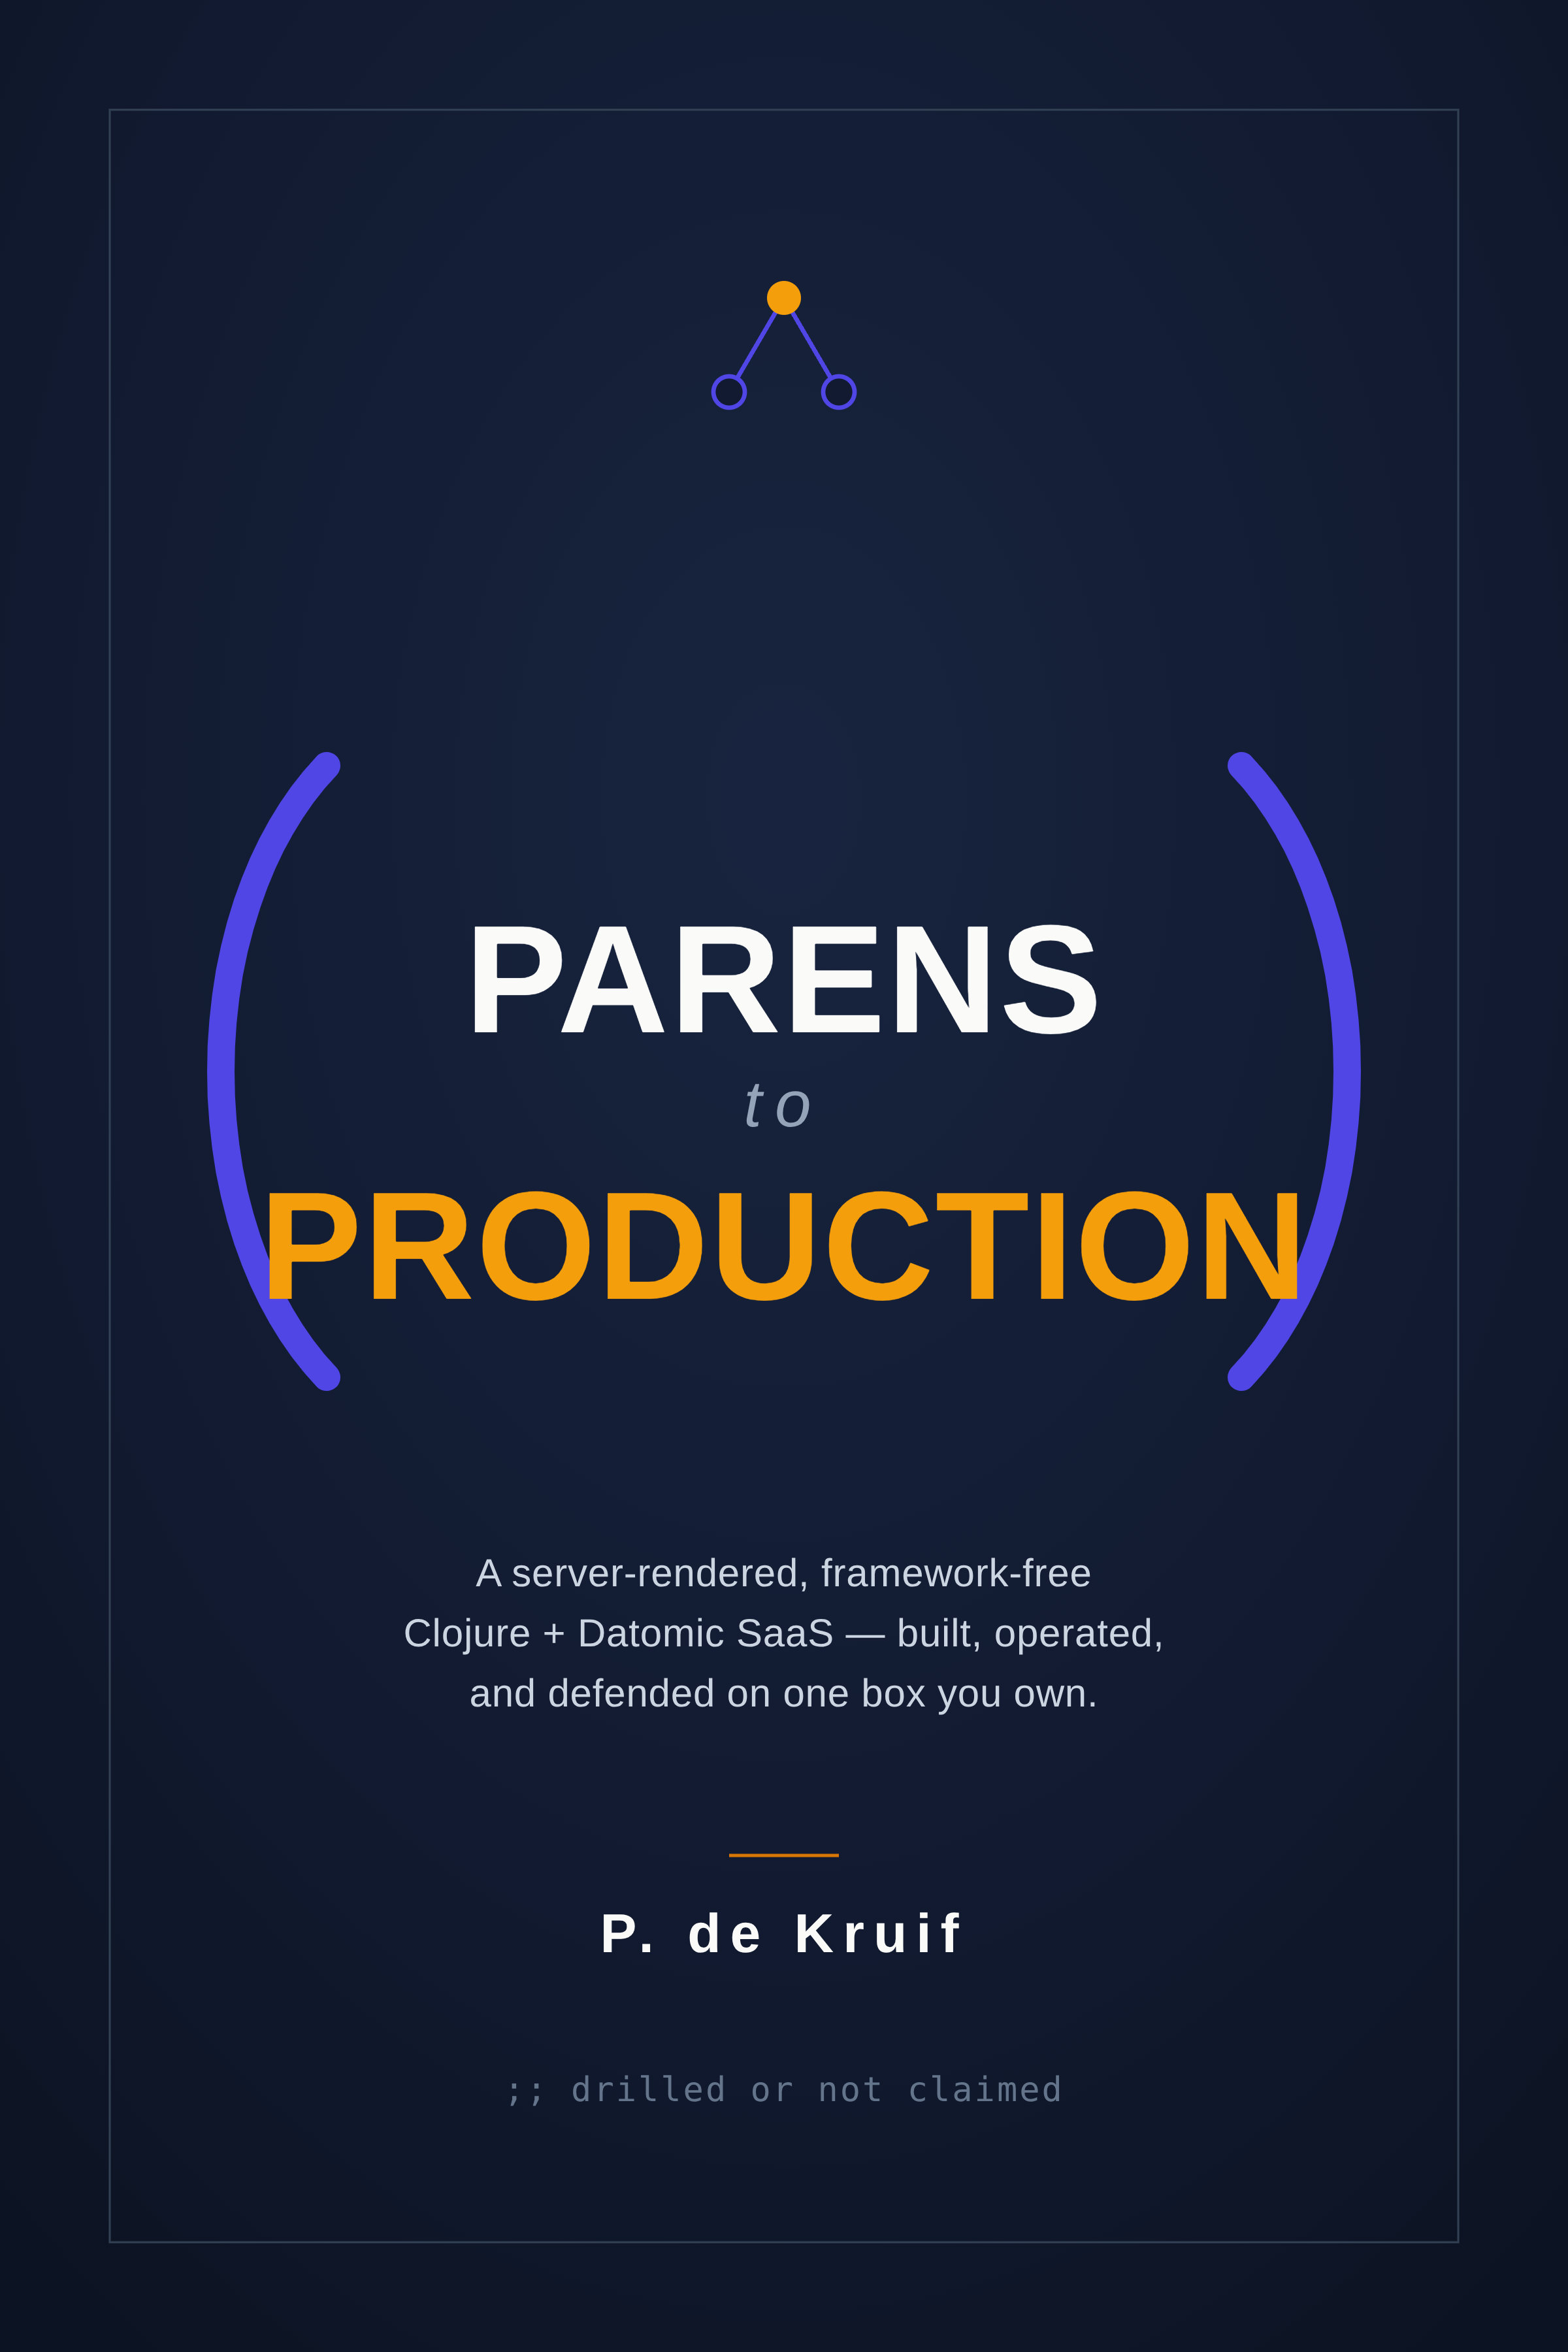
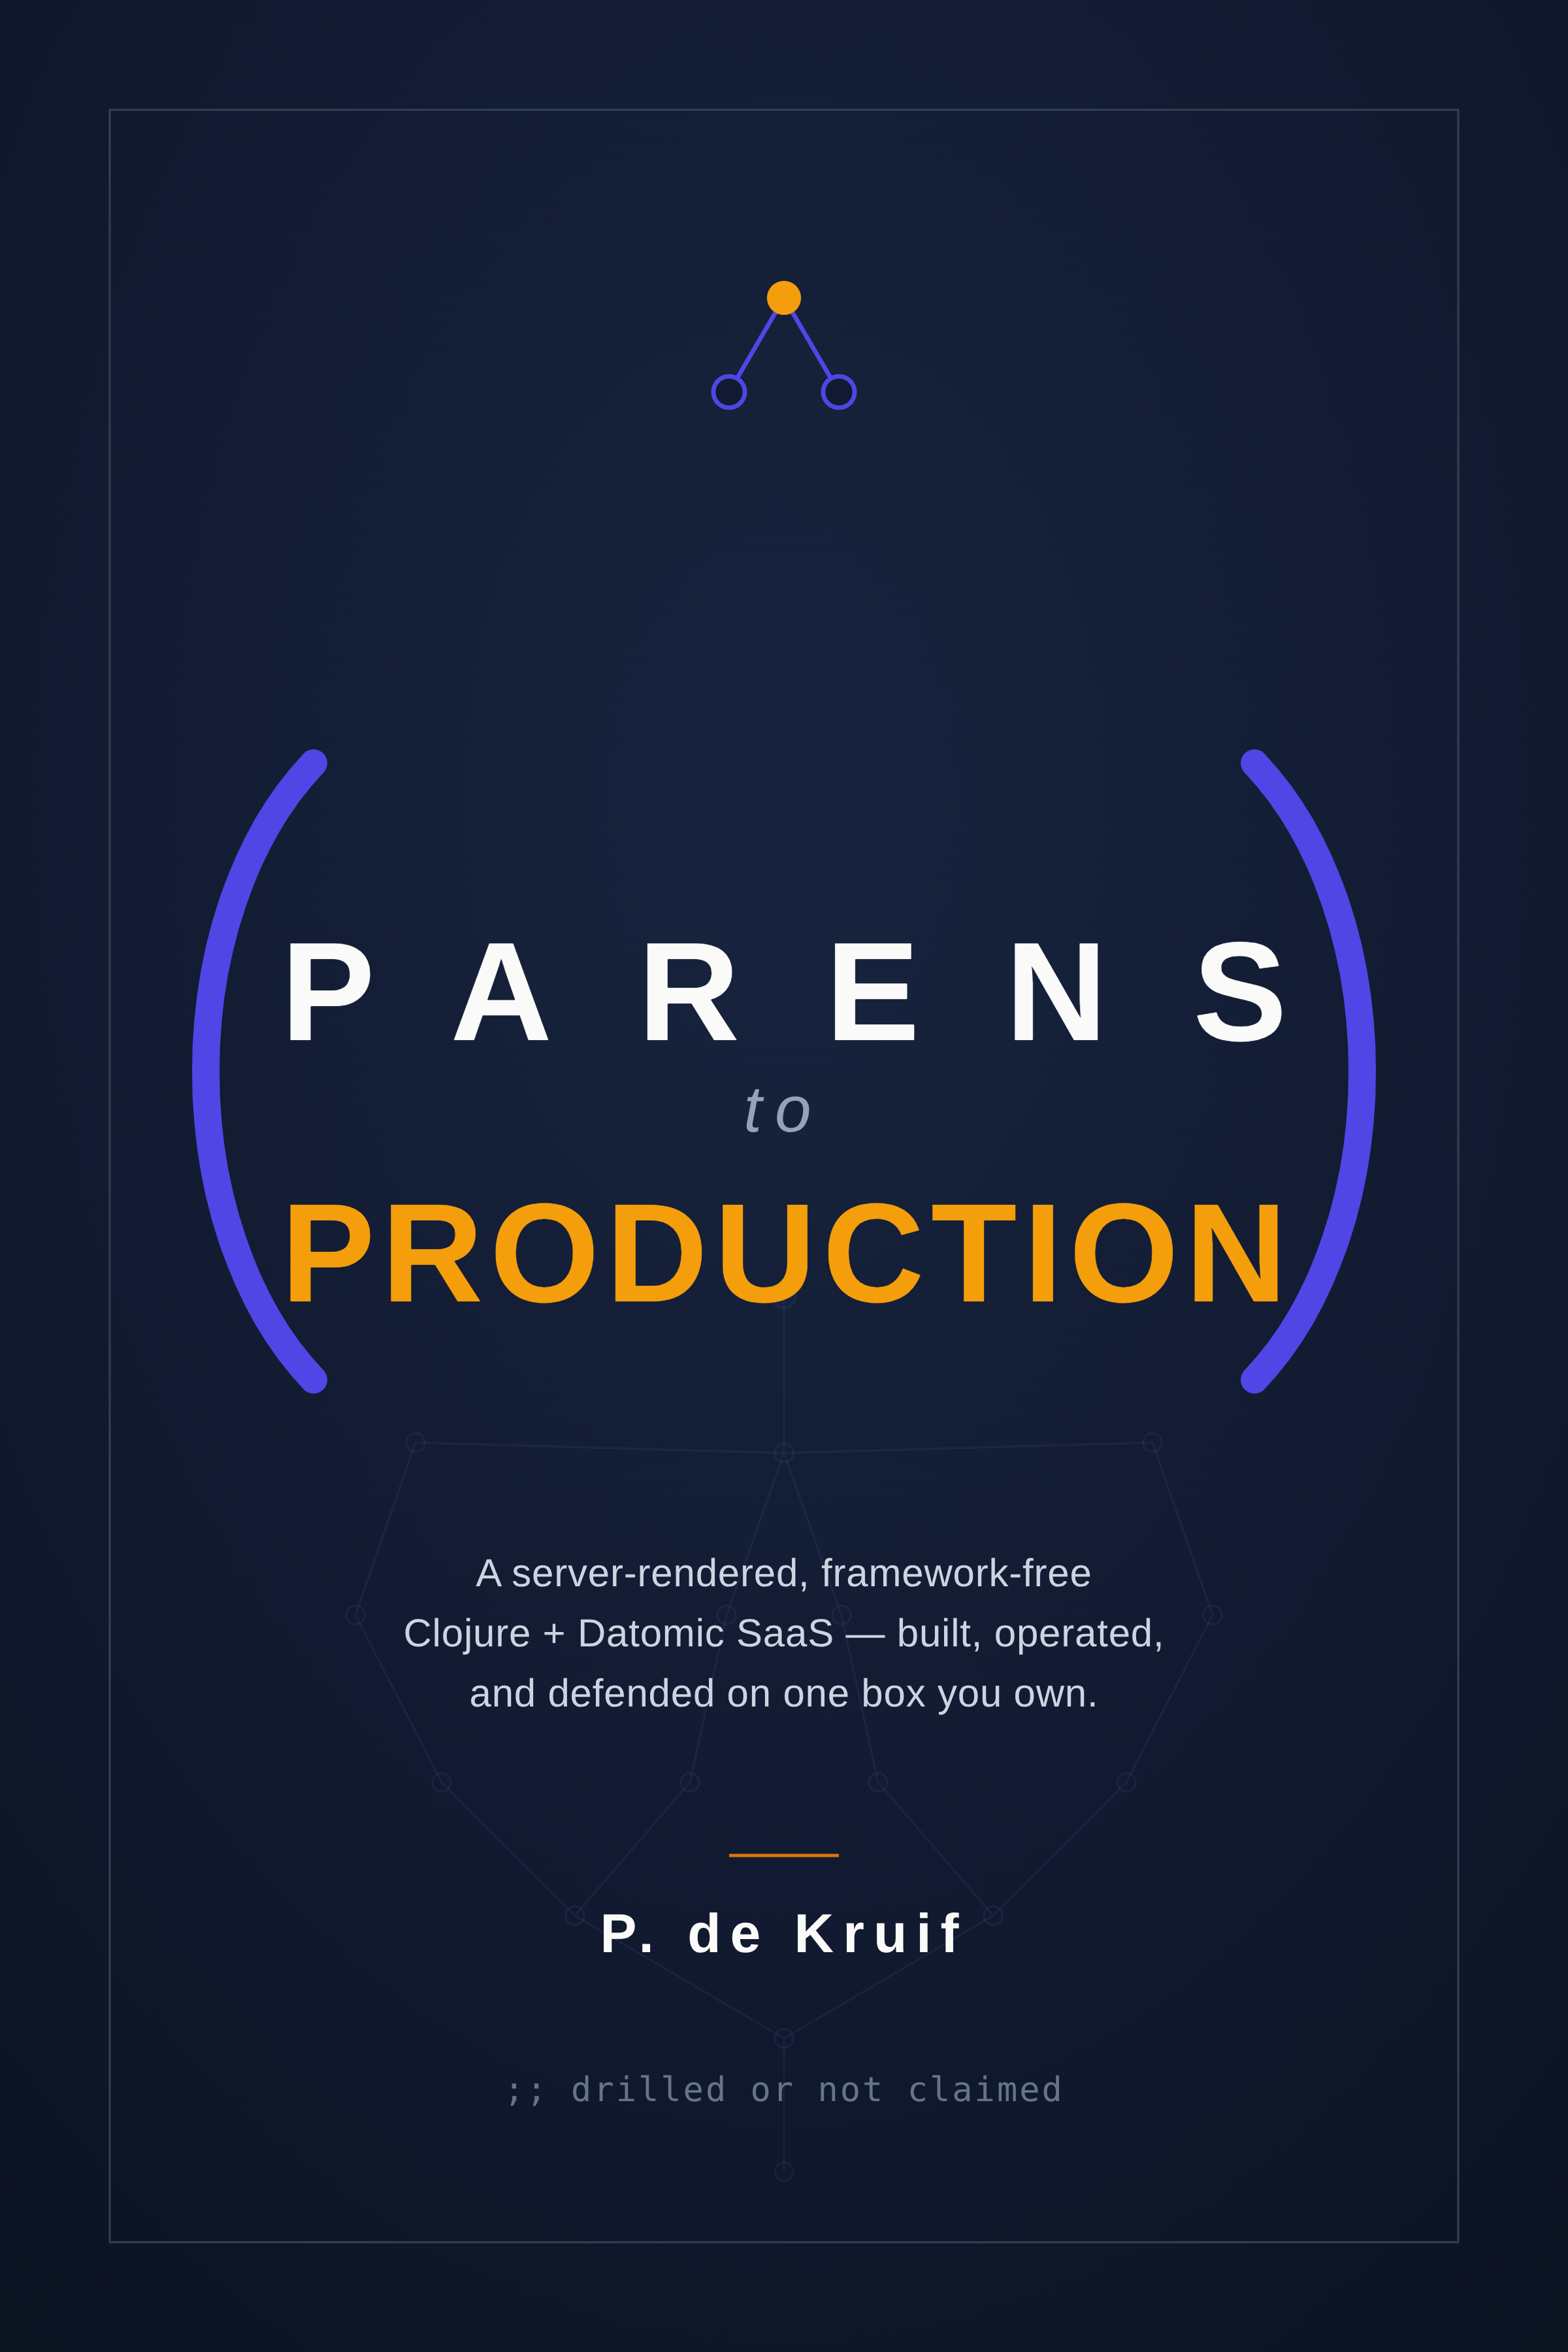
Refine the monolith cover per feedback (chosen direction)
- Title now justified: both words tracked to one common measure so PARENS
  and PRODUCTION share a width, and PRODUCTION no longer clips the parens
  (widened the paren frame + set the title measure inside it with margin).
- Kept the three-node fork mark up top (the favourite).
- Added the spread-out lineage as a FAINT background watermark growing up
  from the base toward the title -- subtle enough not to fight the type.
- Ship a --clean variant too (no watermark) for maximum austerity.

Claude-Session: https://claude.ai/code/session_01HdzuQYL4FdPAyYssbJPQiM

Changed region(s): [[0.4688, 0.3111, 0.875, 0.5911], [0.125, 0.3111, 0.4688, 0.5911], [0.2812, 0.3733, 0.7188, 0.4667]]

diff --git a/cover/README.md b/cover/README.md
@@ -10,10 +10,13 @@ indigo/amber the app and the mdBook site use.
   fork-and-merge DAG (the app's own `:recipe/forked-from` graph) climbs to an
   amber *current* version that ships up into the title. Says the book's thesis —
   "the database already knows" — and could be no other book. Most distinctive.
-- **`parens-to-production--monolith.*`** — the typographic direction. The title
-  as one mass, held inside a pair of parentheses (the Lisp pun made structural),
-  crowned by the fork-mark, footed by `;; drilled or not claimed`. Strongest at
-  thumbnail size; the safest, most conventionally sellable choice.
+- **`parens-to-production--monolith.*`** — the chosen direction. The title as one
+  justified mass (both words tracked to a common measure), held inside a pair of
+  parentheses (the Lisp pun made structural), crowned by the fork-mark, footed by
+  `;; drilled or not claimed`, over a faint lineage watermark that grows up from
+  the base toward the title. Strongest at thumbnail; the safest sell.
+- **`parens-to-production--monolith-clean.*`** — the same, without the watermark,
+  for maximum austerity / when the background reads as noise at small sizes.
 
 Both are self-contained SVG (system fonts, no external refs). For print, set a
 licensed display face in place of the Helvetica/Arial stack and re-render at the